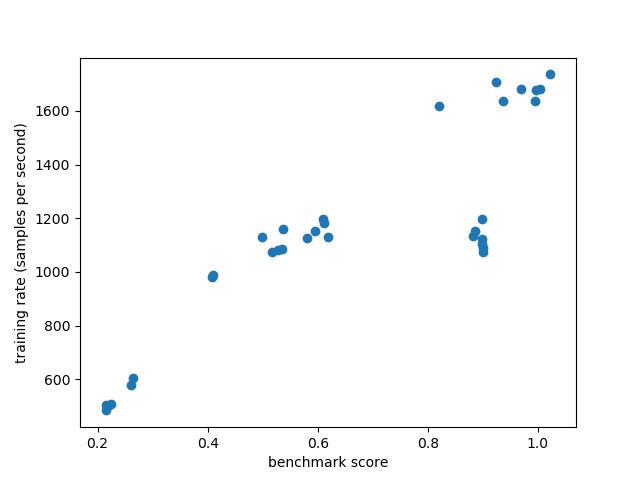
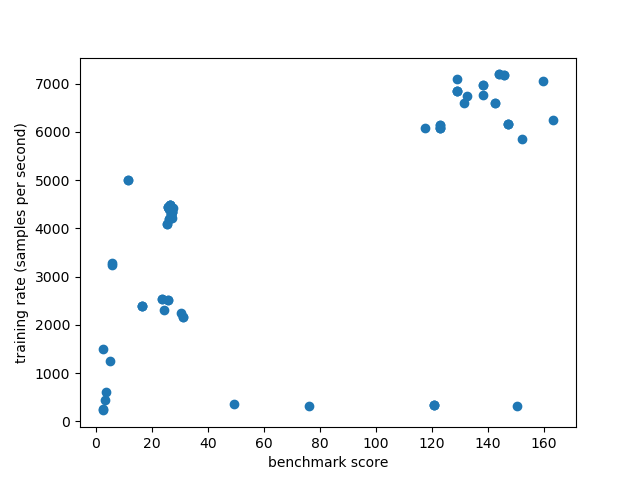
uploading some results

diff --git a/FLOPS_testing/dcp_benchmark_vs_sample_rate.js b/FLOPS_testing/dcp_benchmark_vs_sample_rate.js
@@ -14,7 +14,7 @@ function progress(input) {
 async function workFn(input) {
   // imports the required modules
   tf = require('tfjs');
-  tf.setBackend('cpu');
+  tf.setBackend('webgl');
   await tf.ready();
   mnist = require('mnist.js');
 
